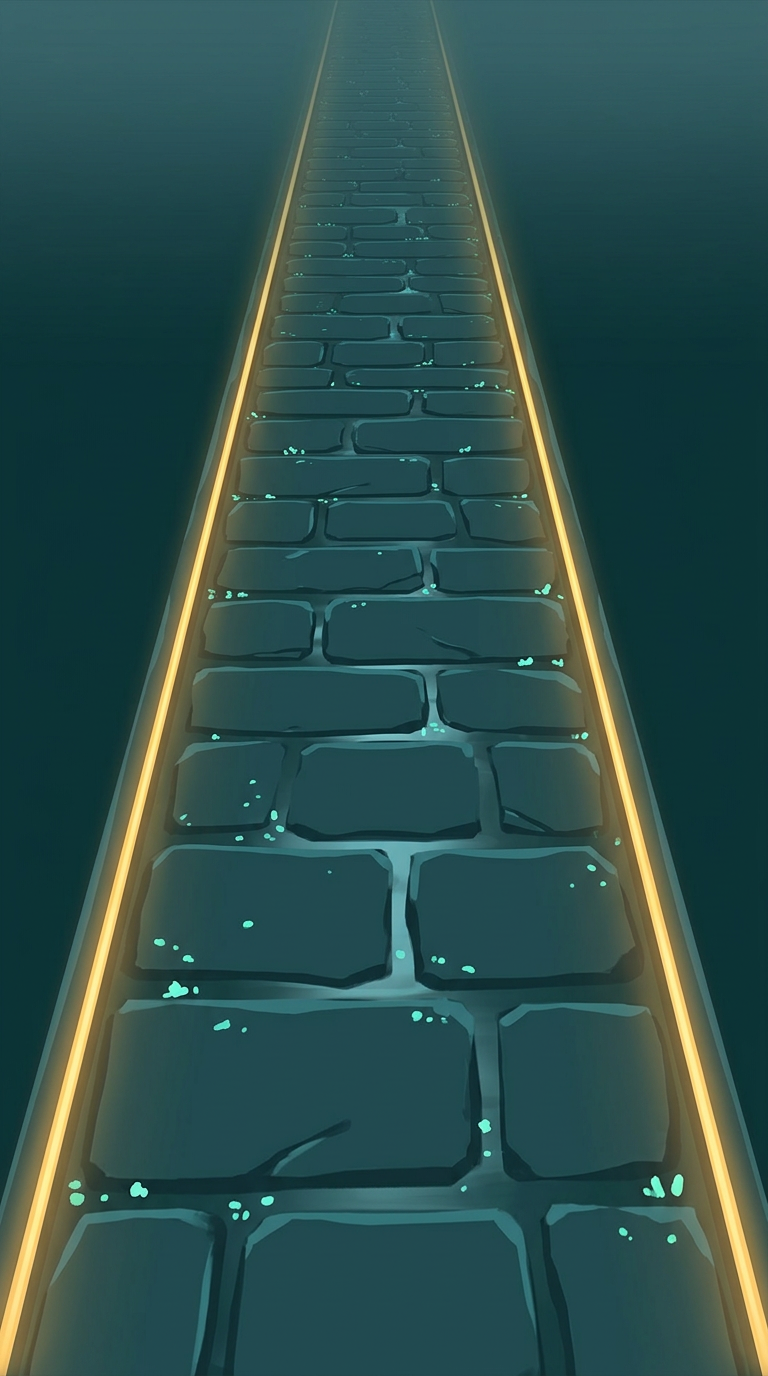
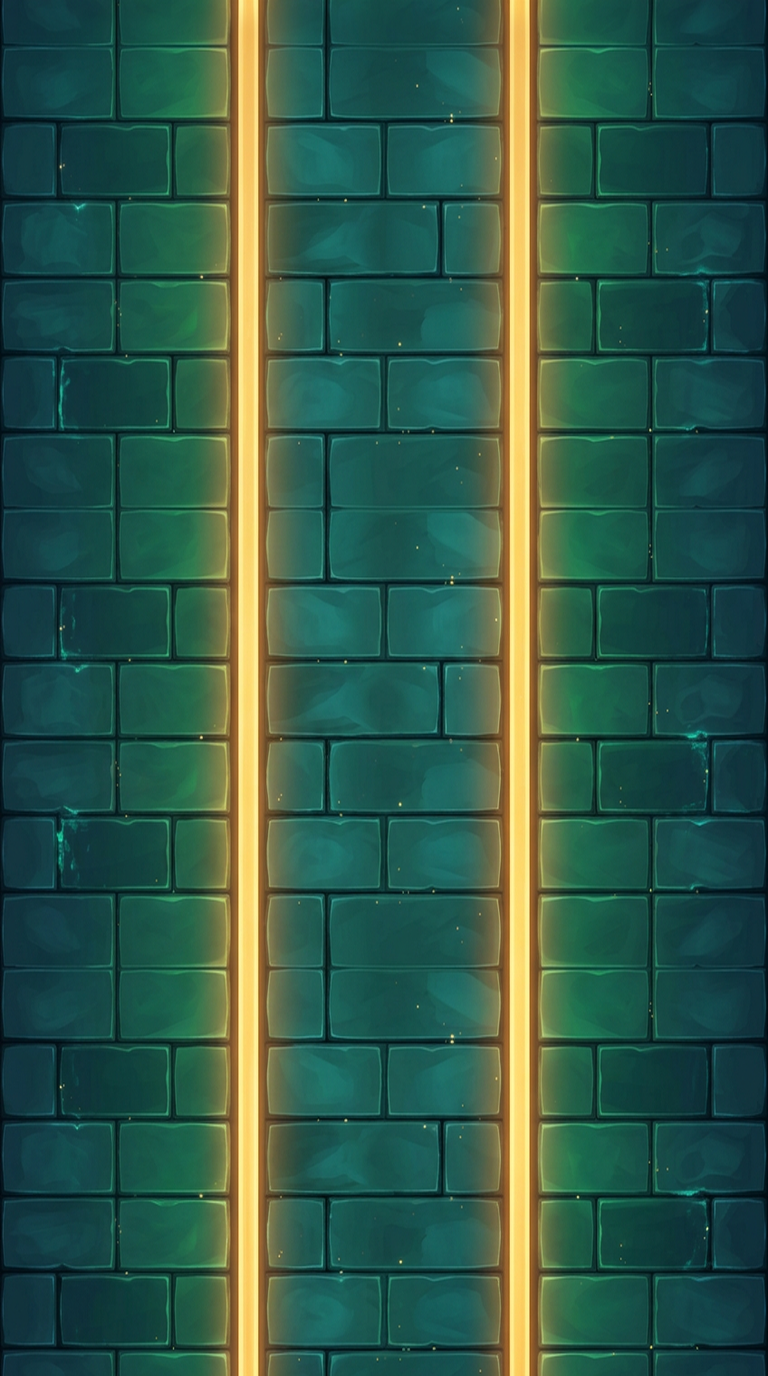
feat(art): S11 - seamless orthographic strips, 12x48 foreshortened track mesh, grounded hero

diff --git a/lib/game/components/track_scene.dart b/lib/game/components/track_scene.dart
@@ -22,8 +22,49 @@ class TrackScene extends PositionComponent
     with HasGameReference<SoulDuskRunGame> {
   TrackScene() : super(priority: -100);
 
+  // S11 perspective mesh grid: 12 horizontal columns (divisible by 6 so
+  // column boundaries land directly on the 1/3 & 2/3 rails and 1/2 center,
+  // eliminating affine trapezoid sawtooth warp) x 48 foreshortened rows.
+  static const int _meshCols = 12;
+  static const int _meshRows = 48;
+  static final Float64List _identityMatrix4 = Float64List.fromList(const [
+    1.0, 0.0, 0.0, 0.0,
+    0.0, 1.0, 0.0, 0.0,
+    0.0, 0.0, 1.0, 0.0,
+    0.0, 0.0, 0.0, 1.0,
+  ]);
+
+  final Float32List _meshPos =
+      Float32List((_meshRows + 1) * (_meshCols + 1) * 2);
+  final Float32List _meshTex =
+      Float32List((_meshRows + 1) * (_meshCols + 1) * 2);
+  late final Uint16List _meshIdx = _buildMeshIndices();
+
   late final List<Offset> _stars = _makeStars();
   late final List<_Mote> _motes = _makeMotes();
+
+  static Uint16List _buildMeshIndices() {
+    const stride = _meshCols + 1;
+    final out = Uint16List(_meshRows * _meshCols * 6);
+    var k = 0;
+    for (var r = 0; r < _meshRows; r++) {
+      final row0 = r * stride;
+      final row1 = (r + 1) * stride;
+      for (var c = 0; c < _meshCols; c++) {
+        final a = row0 + c;
+        final b = a + 1;
+        final d = row1 + c;
+        final e = d + 1;
+        out[k++] = a;
+        out[k++] = b;
+        out[k++] = d;
+        out[k++] = b;
+        out[k++] = e;
+        out[k++] = d;
+      }
+    }
+    return out;
+  }
 
   static List<Offset> _makeStars() {
     final random = math.Random(7);
@@ -147,9 +188,15 @@ class TrackScene extends PositionComponent
   /// floor show through so world and path read as one place.
   void _renderTrack(Canvas canvas, double w, double h) {
     final horizonY = game.horizonY;
+    final spanToPlayer = math.max(1.0, game.playerPlaneY - horizonY);
+    final aMax = (h - horizonY) / spanToPlayer;
     final cx = w / 2;
     final halfTop = game.halfWidthForDepth(1);
-    final halfBottom = game.halfWidthForDepth(0);
+    final halfPlayer = game.halfWidthForDepth(0);
+    // Extrapolate the exact linear-in-approach cone past playerPlaneY
+    // (0.86h) to the screen bottom (1.00h) so track and entity projection
+    // stay 1:1 aligned at every depth while filling the lower frame (S11).
+    final halfBottom = halfTop + (halfPlayer - halfTop) * aMax;
 
     final track = Path()
       ..moveTo(cx - halfTop, horizonY)
@@ -175,15 +222,43 @@ class TrackScene extends PositionComponent
         ),
     );
 
-    // S10: world-authored perspective track surface strip. The strip is
-    // warped into the trapezoid with a triangle mesh whose rows follow
-    // the exact gameplay projection (yForDepth / halfWidthForDepth), so
-    // the painted rails stay on the track edges at every depth, and the
-    // vertical texture coordinate scrolls with travelled distance so the
-    // ground flows toward the player.
+    // S11: world-authored orthographic track strip warped with true 2.5D
+    // perspective foreshortening across a 12x48 mesh all the way to the
+    // screen bottom, with a soft top mist fade into the horizon glow.
     final strip = game.trackStrip;
-    if (strip != null) {
-      _renderStripMesh(canvas, strip, cx);
+    if (strip != null && h > horizonY) {
+      final trackBounds = Rect.fromLTWH(0, horizonY, w, h - horizonY);
+      canvas.saveLayer(trackBounds, Paint());
+      _renderStripMesh(
+        canvas,
+        strip,
+        horizonY: horizonY,
+        spanToPlayer: spanToPlayer,
+        aMax: aMax,
+        cx: cx,
+        halfTop: halfTop,
+        halfPlayer: halfPlayer,
+      );
+      final curb = Paint()
+        ..color = Color(GameConfig.trackEdgeArgbFor(game.selectedWorld))
+        ..style = PaintingStyle.stroke
+        ..strokeWidth = 2;
+      canvas.drawLine(
+          Offset(cx - halfTop, horizonY), Offset(cx - halfBottom, h), curb);
+      canvas.drawLine(
+          Offset(cx + halfTop, horizonY), Offset(cx + halfBottom, h), curb);
+      final fadeEnd = horizonY + (h - horizonY) * 0.06;
+      canvas.drawRect(
+        Rect.fromLTWH(0, horizonY, w, fadeEnd - horizonY + 1),
+        Paint()
+          ..blendMode = BlendMode.dstIn
+          ..shader = Gradient.linear(
+            Offset(0, horizonY),
+            Offset(0, fadeEnd),
+            const [Color(0x00FFFFFF), Color(0xFFFFFFFF)],
+          ),
+      );
+      canvas.restore();
     }
 
     // Code-drawn rails only when the authored strip is unavailable: the
@@ -199,17 +274,21 @@ class TrackScene extends PositionComponent
           Offset(cx + halfTop, horizonY), Offset(cx + halfBottom, h), edge);
     }
 
-    final lanePaint = Paint()
-      ..color = Color(GameConfig.trackLaneArgbFor(game.selectedWorld))
-      ..style = PaintingStyle.stroke
-      ..strokeWidth = 2;
-    for (var i = 1; i < GameConfig.laneCount; i++) {
-      final f = i / GameConfig.laneCount;
-      canvas.drawLine(
-        Offset(cx - halfTop + 2 * halfTop * f, horizonY),
-        Offset(cx - halfBottom + 2 * halfBottom * f, h),
-        lanePaint,
-      );
+    // S11: baked rails sit at the lane boundaries (thirds of the strip
+    // width), so code lane dividers are fallback-only too.
+    if (strip == null) {
+      final lanePaint = Paint()
+        ..color = Color(GameConfig.trackLaneArgbFor(game.selectedWorld))
+        ..style = PaintingStyle.stroke
+        ..strokeWidth = 2;
+      for (var i = 1; i < GameConfig.laneCount; i++) {
+        final f = i / GameConfig.laneCount;
+        canvas.drawLine(
+          Offset(cx - halfTop + 2 * halfTop * f, horizonY),
+          Offset(cx - halfBottom + 2 * halfBottom * f, h),
+          lanePaint,
+        );
+      }
     }
 
     // Flowing depth stripes are the fallback motion cue — the authored
@@ -235,64 +314,60 @@ class TrackScene extends PositionComponent
     }
   }
 
-  /// Warps the authored strip into the track trapezoid as a triangle
-  /// mesh (S10). Row t (0 = horizon, 1 = bottom edge) is placed with the
-  /// exact gameplay projection functions so painted rails align with the
-  /// lane geometry at every depth. Texture coordinates address strip
-  /// pixels, one strip length per trackLength cycle, scrolling with
-  /// travelled distance (repeated tiling wraps the phase).
-  void _renderStripMesh(Canvas canvas, Image strip, double cx) {
-    const rows = 16; // vertical segments of the perspective warp
+  /// Warps the orthographic strip into the 2.5D track cone as a 12x48
+  /// subdivided triangle mesh (S11). Sampling world distance `u` uniformly
+  /// and projecting `a = u^perspectiveExponent` locks brick scroll 1:1 to
+  /// obstacle/orb motion and compresses stone courses naturally toward the
+  /// horizon, while the 12 horizontal subdivisions eliminate affine
+  /// trapezoid sawtooth distortion on the baked rails.
+  void _renderStripMesh(
+    Canvas canvas,
+    Image strip, {
+    required double horizonY,
+    required double spanToPlayer,
+    required double aMax,
+    required double cx,
+    required double halfTop,
+    required double halfPlayer,
+  }) {
     final stripW = strip.width.toDouble();
     final stripH = strip.height.toDouble();
-    final scroll = game.travelled / GameConfig.trackLength;
+    final scroll = (game.travelled / GameConfig.trackLength) % 1.0;
+    final uMax =
+        math.pow(math.max(0.0, aMax), 1 / GameConfig.perspectiveExponent)
+            .toDouble();
 
-    final positions = Float32List((rows + 1) * 4);
-    final texs = Float32List((rows + 1) * 4);
-    final indices = <int>[];
-    for (var i = 0; i <= rows; i++) {
-      final t = i / rows; // 0 at the horizon, 1 at the bottom edge
-      final depth = 1 - t;
-      final y = game.yForDepth(depth);
-      final half = game.halfWidthForDepth(depth);
-      // v grows towards the player; a fixed strip feature therefore
-      // slides toward the bottom edge as distance accumulates.
-      final v = (t - scroll) * stripH;
-      final base = i * 4;
-      positions[base] = cx - half;
-      positions[base + 1] = y;
-      positions[base + 2] = cx + half;
-      positions[base + 3] = y;
-      texs[base] = 0;
-      texs[base + 1] = v;
-      texs[base + 2] = stripW;
-      texs[base + 3] = v;
-    }
-    for (var i = 0; i < rows; i++) {
-      final a = 2 * i;
-      final b = a + 1;
-      final c = a + 2;
-      final d = a + 3;
-      indices.addAll([a, b, c, b, d, c]);
+    var p = 0;
+    for (var r = 0; r <= _meshRows; r++) {
+      final u = (r / _meshRows) * uMax;
+      final a = math.pow(u, GameConfig.perspectiveExponent).toDouble();
+      final y = horizonY + spanToPlayer * a;
+      final half = halfTop + (halfPlayer - halfTop) * a;
+      final v = (u - scroll) * stripH;
+      final left = cx - half;
+      final width = half * 2;
+      for (var c = 0; c <= _meshCols; c++) {
+        final fx = c / _meshCols;
+        _meshPos[p] = left + width * fx;
+        _meshPos[p + 1] = y;
+        _meshTex[p] = stripW * fx;
+        _meshTex[p + 1] = v;
+        p += 2;
+      }
     }
 
     final vertices = Vertices.raw(
       VertexMode.triangles,
-      positions,
-      textureCoordinates: texs,
-      indices: Uint16List.fromList(indices),
+      _meshPos,
+      textureCoordinates: _meshTex,
+      indices: _meshIdx,
     );
     final paint = Paint()
       ..shader = ImageShader(
         strip,
+        TileMode.clamp,
         TileMode.repeated,
-        TileMode.repeated,
-        Float64List.fromList(const [
-          1.0, 0.0, 0.0, 0.0,
-          0.0, 1.0, 0.0, 0.0,
-          0.0, 0.0, 1.0, 0.0,
-          0.0, 0.0, 0.0, 1.0,
-        ]),
+        _identityMatrix4,
         filterQuality: FilterQuality.medium,
       );
     canvas.drawVertices(vertices, BlendMode.srcOver, paint);

diff --git a/lib/game/config/game_config.dart b/lib/game/config/game_config.dart
@@ -64,14 +64,22 @@ class GameConfig {
   static const double farScale = 0.16;
 
   /// Half-width of the track at the horizon, as a fraction of screen width.
-  static const double trackTopHalfWidthRatio = 0.13;
+  /// S11: tuned to 0.11 so the causeway converges cleanly into the distant
+  /// horizon arch/bridge across all worlds.
+  static const double trackTopHalfWidthRatio = 0.11;
 
-  /// Half-width of the track at the bottom edge, as a fraction of screen width.
-  static const double trackBottomHalfWidthRatio = 0.55;
+  /// Half-width of the track on the player plane (depth 0, y = 0.86h), as
+  /// a fraction of screen width. S11: widened to 0.54 (which extrapolates
+  /// along the same straight cone to ~0.65w at the bottom screen edge) so
+  /// the runway fills the lower frame in Subway-style framing while
+  /// keeping lane geometry and entity projection 1:1 locked.
+  static const double trackBottomHalfWidthRatio = 0.54;
 
   /// Lane center offset from track center as a fraction of current
   /// half-width (lane N sits at (N - 1) * this value for 3 lanes).
-  static const double laneSpreadRatio = 0.66;
+  /// S11: 0.65 aligns gameplay lanes within <1%w of the painted 1/3-2/3
+  /// stone lane centers across all depths without outer-edge clipping.
+  static const double laneSpreadRatio = 0.65;
 
   /// Exponent of the depth->screen easing curve (>1 = slow far, fast near).
   static const double perspectiveExponent = 2.0;
@@ -84,7 +92,7 @@ class GameConfig {
   /// from 0.21 — on-device reads still showed the sun-head cycle small;
   /// fairness unchanged — hitbox keeps the same 0.78 grace factor and
   /// the inter-lane clearance still exceeds the summed widths).
-  static const double playerWidthRatio = 0.24;
+  static const double playerWidthRatio = 0.25;
 
   /// Obstacle/orb base width as a fraction of screen width (S10: raised
   /// with the player so entities stay proportional to the hero).
@@ -268,7 +276,7 @@ class GameConfig {
   /// humanoid silhouette at ≈ 76–82% of the 512×512 plate height (vs ≈
   /// 53% for the retired ball-design frames → boost scale ≈53/80); this
   /// boost normalizes the drawn silhouette to the established hero size.
-  static const double runCycleFitBoost = 1.22;
+  static const double runCycleFitBoost = 1.26;
 }
 
 /// Playable worlds. World choice changes assets/palette only — never

diff --git a/lib/game/components/soul_player.dart b/lib/game/components/soul_player.dart
@@ -98,11 +98,6 @@ class SoulPlayer extends PositionComponent
   void _renderFrame(Canvas canvas, Image frame) {
     final w = size.x;
     final h = size.y;
-    canvas.save();
-    canvas.translate(w / 2, h / 2);
-    canvas.rotate(_lean * GameConfig.playerLeanAngle);
-    canvas.scale(1 + _lean.abs() * 0.08, 1 - _lean.abs() * 0.06);
-
     final imgW = frame.width.toDouble();
     final imgH = frame.height.toDouble();
     // Frames hold ~53% content inside a 512×512 plate; the fit boost
@@ -111,13 +106,46 @@ class SoulPlayer extends PositionComponent
       (w * 1.30 * GameConfig.runCycleFitBoost) / imgW,
       (h * 1.30 * GameConfig.runCycleFitBoost) / imgH,
     );
+    final dw = imgW * fit;
+    final dh = imgH * fit;
+
+    // Ground aura + contact shadow planted on the stone surface beneath
+    // Soul's feet (unrotated so the floor plane stays horizontal during
+    // lane-switch leans).
+    final footCenter = Offset(w / 2, h / 2 + dh * 0.36);
+    canvas.drawOval(
+      Rect.fromCenter(
+        center: footCenter,
+        width: dw * 0.62,
+        height: dh * 0.15,
+      ),
+      Paint()
+        ..color = const Color(0x40FFB830)
+        ..maskFilter = const MaskFilter.blur(BlurStyle.normal, 10),
+    );
+    canvas.drawOval(
+      Rect.fromCenter(
+        center: Offset(w / 2, h / 2 + dh * 0.37),
+        width: dw * 0.38,
+        height: dh * 0.09,
+      ),
+      Paint()
+        ..color = const Color(0x8810061E)
+        ..maskFilter = const MaskFilter.blur(BlurStyle.normal, 5),
+    );
+
+    canvas.save();
+    canvas.translate(w / 2, h / 2);
+    canvas.rotate(_lean * GameConfig.playerLeanAngle);
+    canvas.scale(1 + _lean.abs() * 0.08, 1 - _lean.abs() * 0.06);
+
     canvas.drawImageRect(
       frame,
       Rect.fromLTWH(0, 0, imgW, imgH),
       Rect.fromCenter(
         center: Offset.zero,
-        width: imgW * fit,
-        height: imgH * fit,
+        width: dw,
+        height: dh,
       ),
       Paint()..filterQuality = FilterQuality.medium,
     );

diff --git a/lib/game/components/obstacle.dart b/lib/game/components/obstacle.dart
@@ -73,6 +73,16 @@ class Obstacle extends PositionComponent
           : h / sprite.height;
       final dw = sprite.width * fit;
       final dh = sprite.height * fit;
+      canvas.drawOval(
+        Rect.fromCenter(
+          center: Offset(w / 2, h * 0.93),
+          width: dw * 0.80,
+          height: dh * 0.22,
+        ),
+        Paint()
+          ..color = const Color(0x800D051A)
+          ..maskFilter = const MaskFilter.blur(BlurStyle.normal, 5),
+      );
       canvas.drawImageRect(
         sprite,
         Rect.fromLTWH(0, 0, sprite.width.toDouble(),
